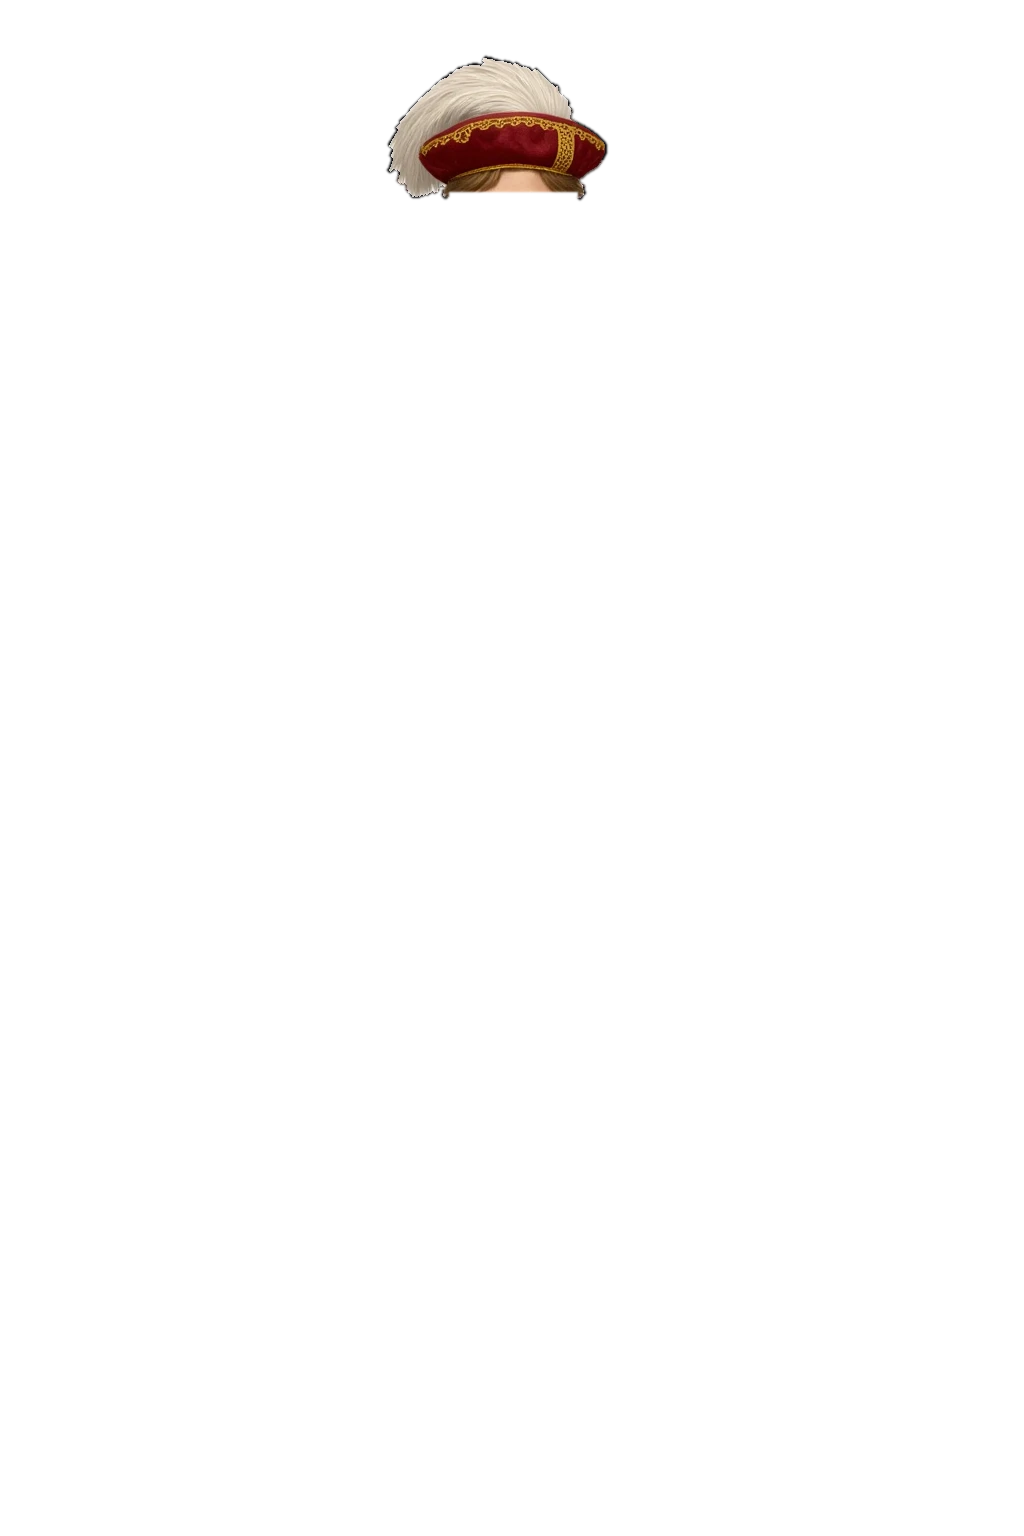
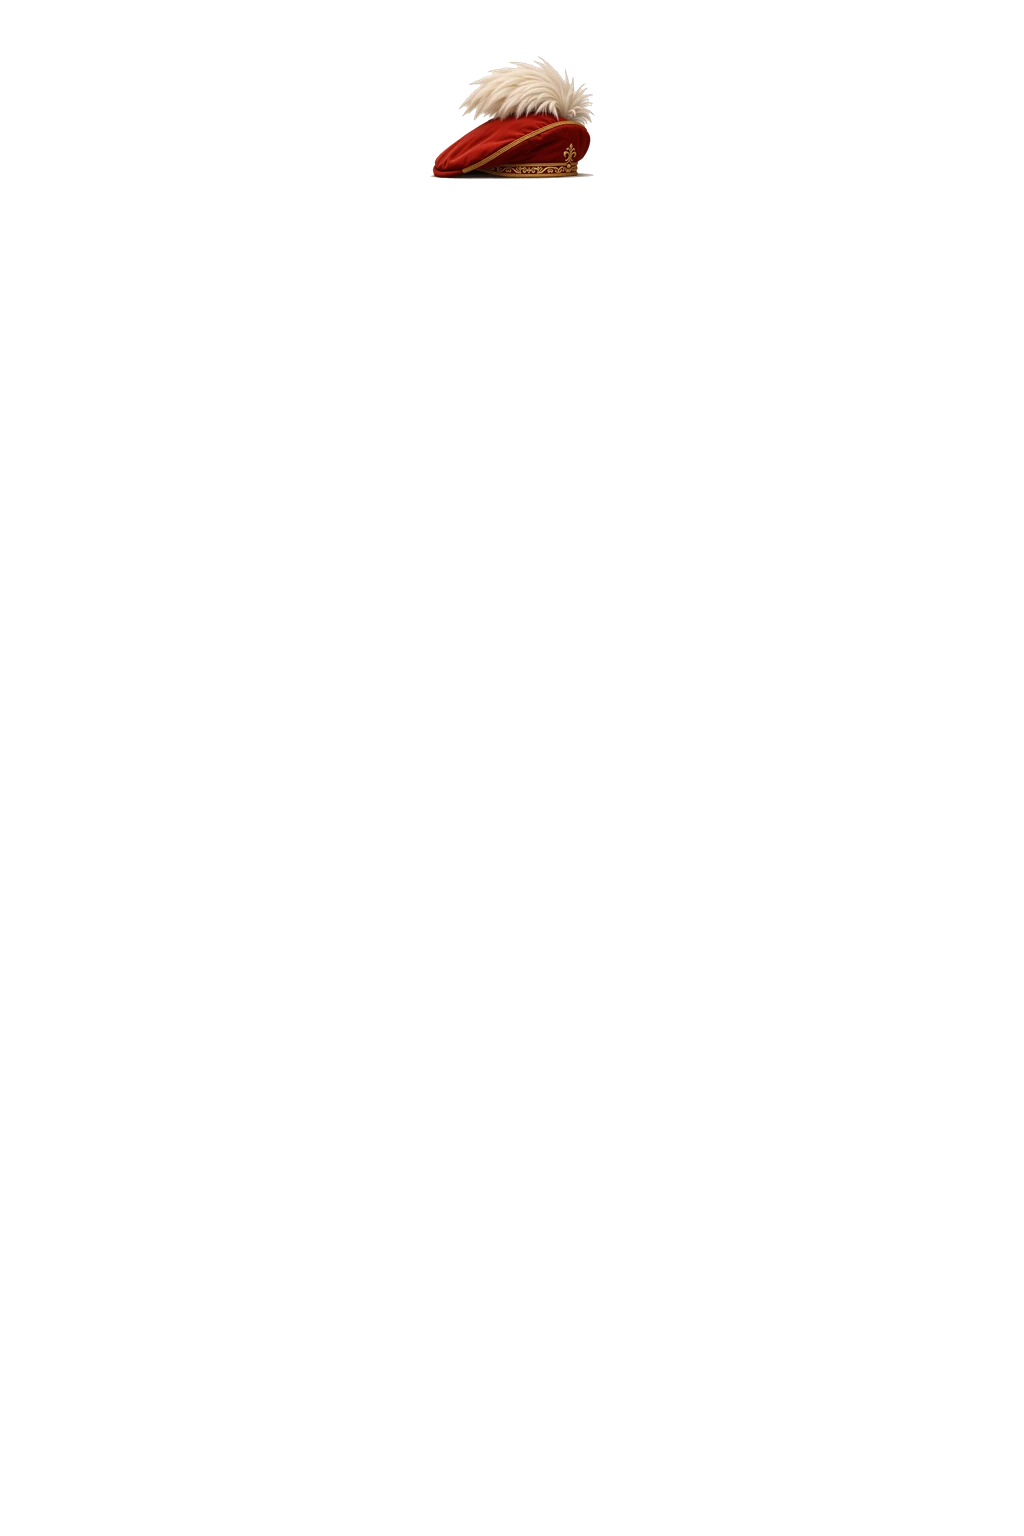
1.0-1-6: krátké vlasy muže o 8 px výš (Pavel), čepice nasazené na hlavu z vyříznutého tvaru

Changed region(s): [[0.375, 0.0312, 0.5938, 0.1562]]

diff --git a/nastroje/vrstva_z_predlohy.py b/nastroje/vrstva_z_predlohy.py
@@ -18,6 +18,18 @@ def uloz(im, name):
     im.resize((512, 768), Image.LANCZOS).save(P / f"{name}-m.webp", "WEBP", quality=88)
 
 
+NARAZIT_DOLU, NARAZIT_SIRE = 14, 1.04
+
+
+def narazit(im):
+    """Posun čepice dolů do čela a mírné rozšíření kolem středu hlavy (x 512)."""
+    w, h = im.size
+    big = im.resize((round(w * NARAZIT_SIRE), round(h * NARAZIT_SIRE)), Image.LANCZOS)
+    out = Image.new("RGBA", (w, h))
+    out.alpha_composite(big.crop((round((big.size[0] - w) / 2), 0, round((big.size[0] - w) / 2) + w, h)), (0, NARAZIT_DOLU))
+    return out
+
+
 def main():
     src, nova, ref = sys.argv[1:4]
     vlastni = "vlastni" in sys.argv[4:]        # 1.0-1-6: obrys z vygenerovaného obrázku (klobouky jiného tvaru než předloha)
@@ -43,7 +55,22 @@ def main():
         gg2 = np.array(g).astype(np.int16)                  # původní výstup (bez doplnění z předlohy)
         nebila = ~((gg2.min(axis=2) > 215) & (gg2.max(axis=2) - gg2.min(axis=2) < 25))
         yy = np.arange(1536)[:, None]
-        hl = nebila & ((yy < 192) | (t[..., 3] < 20)) & (yy < 250)      # krempa po stranách, ne vlasy na ramenou
+        kuze = (t[..., 3] > 200) & (np.abs(gg2 - t[..., :3].astype(np.int16)).sum(axis=2) < 75)   # čelo a tvář postavy — nepatří k čepici
+        hl = nebila & ~kuze & ((yy < 192) | (t[..., 3] < 20)) & (yy < 250)
+        if "bez_vlasu" in sys.argv[4:]:                  # Pavel: vygenerované vlasy pryč, pod čepicí navážou vlasy postavy
+            import colorsys
+            f = gg2.astype(np.float32) / 255
+            mx, mn = f.max(axis=2), f.min(axis=2)
+            sat = np.where(mx > 0, (mx - mn) / np.maximum(mx, 1e-3), 0)
+            hue = np.zeros_like(mx)
+            r_, g_, b_ = f[..., 0], f[..., 1], f[..., 2]
+            m_ = (mx == r_) & (mx > mn); hue[m_] = ((g_ - b_)[m_] / (mx - mn)[m_]) % 6 * 60
+            vlas = (hue >= 12) & (hue <= 48) & (sat > 0.18) & (sat < 0.75) & (mx < 0.72) & (yy > 120)
+            vlas = ndimage.binary_opening(vlas, iterations=1)
+            hl &= ~ndimage.binary_dilation(vlas, iterations=2)
+            lab, nn = ndimage.label(hl)
+            if nn:
+                vel = ndimage.sum(hl, lab, range(1, nn + 1)); hl = np.isin(lab, [i + 1 for i, v in enumerate(vel) if v > vel.max() * 0.015])      # krempa po stranách, ne vlasy na ramenou
         hl = ndimage.binary_opening(hl, iterations=2)
         lab, nn = ndimage.label(hl)
         if nn:
@@ -58,6 +85,10 @@ def main():
         skin[a < 10] = False
         a = np.where(ndimage.binary_erosion(~skin, iterations=1) | (a < 10), a, 0).astype(np.uint8)
     out = np.dstack([gg.astype(np.uint8), a]).astype(np.uint8)
+    if vlastni:                                          # Pavel: čepici naražit víc do čela (jinak vysoké „plešaté“ čelo)
+        out = narazit(Image.fromarray(out, "RGBA"))
+        uloz(out, nova)
+        return
     uloz(Image.fromarray(out, "RGBA"), nova)
     j = json.load(open(P / "skryva.json"))
     kopie = 0

diff --git a/nastroje/cepice_na_hlavu.py b/nastroje/cepice_na_hlavu.py
@@ -1,0 +1,57 @@
+"""1.0-1-6 (Pavel): čepice / klobouk vygenerovaný samostatně zepředu (bílé pozadí) → přesně ořezaný tvar nasazený na hlavu postavy.
+Šířka podle šířky lebky, spodní okraj naražený do čela (částečně přes vlasy postavy). Zároveň ikona 160 px.
+python3 nastroje/cepice_na_hlavu.py <png> <slug> <sirka> [jen_zena] [prah=N] [dolu=N]
+  sirka … kolikrát je čepice širší než lebka (baret ~1,45, klobouk s krempou ~1,7, přiléhavá čepice ~1,15)"""
+import sys
+import numpy as np
+from PIL import Image
+from pathlib import Path
+sys.path.insert(0, str(Path(__file__).resolve().parent))
+from predmet_z_comfy import vyrez, R
+
+P = R.parent / "postava"
+CELO = {"muz": 178, "zena": 178}       # řádek, kam sedne spodní okraj čepice (nad obočím, přes vlasy u čela)
+
+
+def uloz(im, name):
+    im.save(P / f"{name}.webp", "WEBP", quality=90)
+    im.resize((512, 768), Image.LANCZOS).save(P / f"{name}-m.webp", "WEBP", quality=88)
+
+
+def lebka(sx):
+    a = np.array(Image.open(P / f"postava-telo-{sx}.webp"))[..., 3] > 60
+    xs = np.where(a[150])[0]
+    return xs.min(), xs.max()
+
+
+def spodni_okraj(im):
+    """Řádek spodního okraje čepice uprostřed (medián nejnižších bodů ve střední polovině šířky)."""
+    a = np.array(im)[..., 3] > 100
+    w = a.shape[1]
+    dna = [np.where(a[:, x])[0].max() for x in range(w // 4, 3 * w // 4) if a[:, x].any()]
+    return int(np.median(dna)) if dna else a.shape[0] - 1
+
+
+def main():
+    src, slug, k = sys.argv[1], sys.argv[2], float(sys.argv[3])
+    opt = sys.argv[4:]
+    prah = next((int(o[5:]) for o in opt if o.startswith("prah=")), 205)
+    dolu = next((int(o[5:]) for o in opt if o.startswith("dolu=")), 0)
+    cap = vyrez(src, prah)
+    for sx in (("zena",) if "jen_zena" in opt else ("muz", "zena")):
+        x0, x1 = lebka(sx)
+        s = (x1 - x0) * k / cap.size[0]
+        c = cap.resize((max(1, round(cap.size[0] * s)), max(1, round(cap.size[1] * s))), Image.LANCZOS)
+        dno = spodni_okraj(c)
+        out = Image.new("RGBA", (1024, 1536))
+        out.alpha_composite(c, (round((x0 + x1) / 2 - c.size[0] / 2), CELO[sx] + dolu - dno))
+        uloz(out, f"helma-{slug}" + ("-zena" if sx == "zena" else ""))
+    S = int(max(cap.size) * 1.08)
+    ik = Image.new("RGBA", (S, S))
+    ik.alpha_composite(cap, ((S - cap.size[0]) // 2, (S - cap.size[1]) // 2))
+    ik.resize((160, 160), Image.LANCZOS).save(R / "ikony" / f"{slug}.webp", "WEBP", quality=88)
+    print(slug, "nasazeno")
+
+
+if __name__ == "__main__":
+    main()
